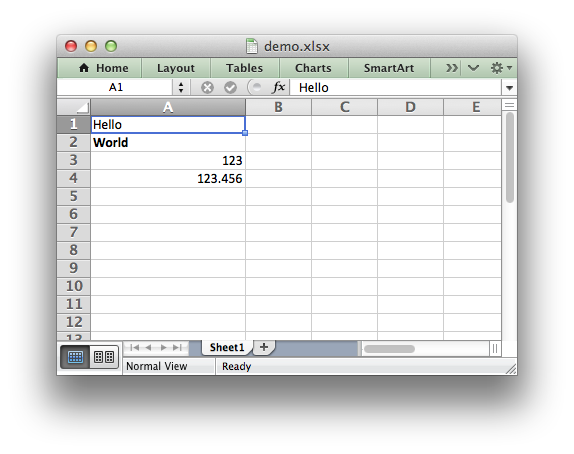
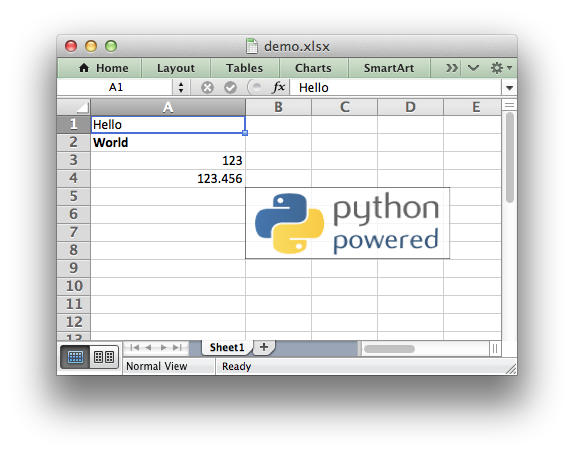
Added insert_image() for demo program.

Changed region(s): [[0.4443, 0.4009, 0.7997, 0.5859]]

diff --git a/examples/demo.py b/examples/demo.py
@@ -27,4 +27,7 @@ worksheet.write('A2', 'World', bold)
 worksheet.write(2, 0, 123)
 worksheet.write(3, 0, 123.456)
 
+# Insert an image.
+worksheet.insert_image('B5', 'logo.png')
+
 workbook.close()

diff --git a/dev/docs/source/index.rst b/dev/docs/source/index.rst
@@ -3,7 +3,7 @@ Creating Excel files with Python and XlsxWriter
 
 XlsxWriter is a Python module for creating Excel XLSX files.
 
-.. image:: _images/intro01.png
+.. image:: _images/demo.png
 
 .. only:: html
 
